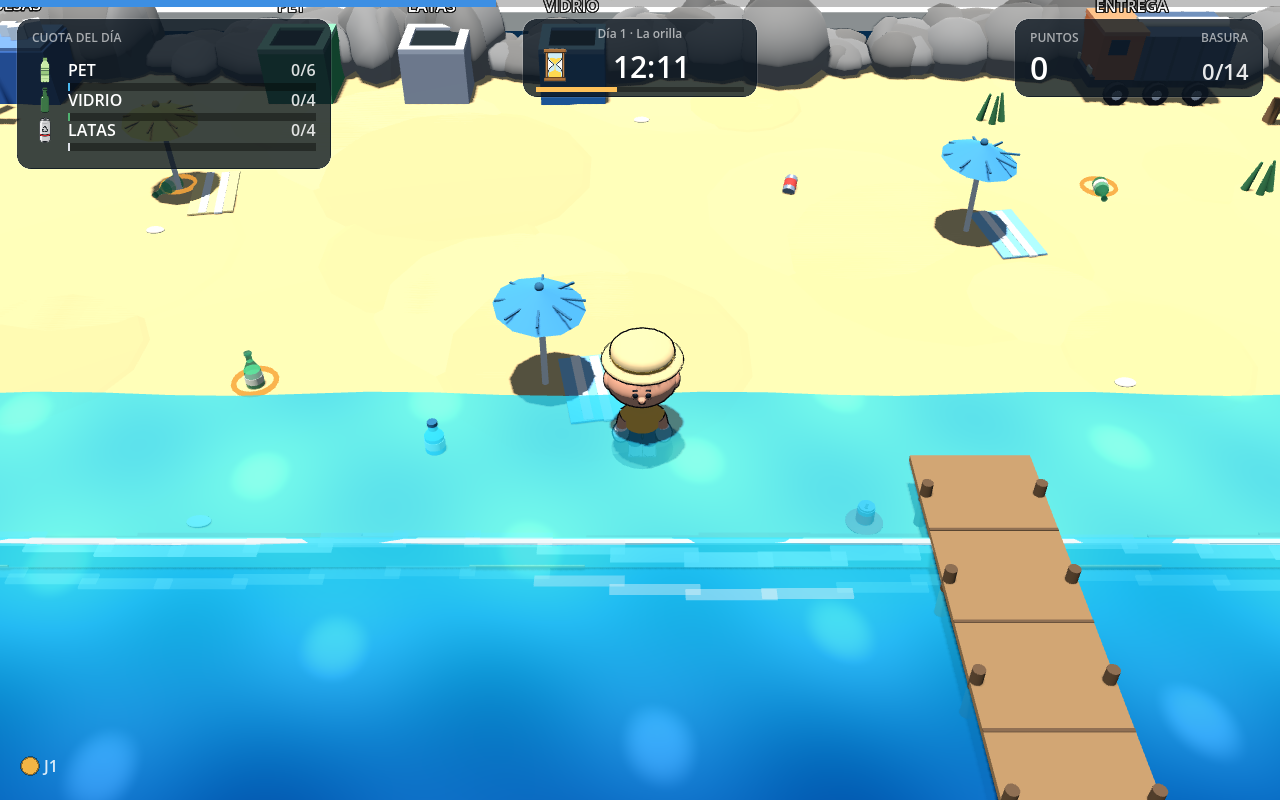
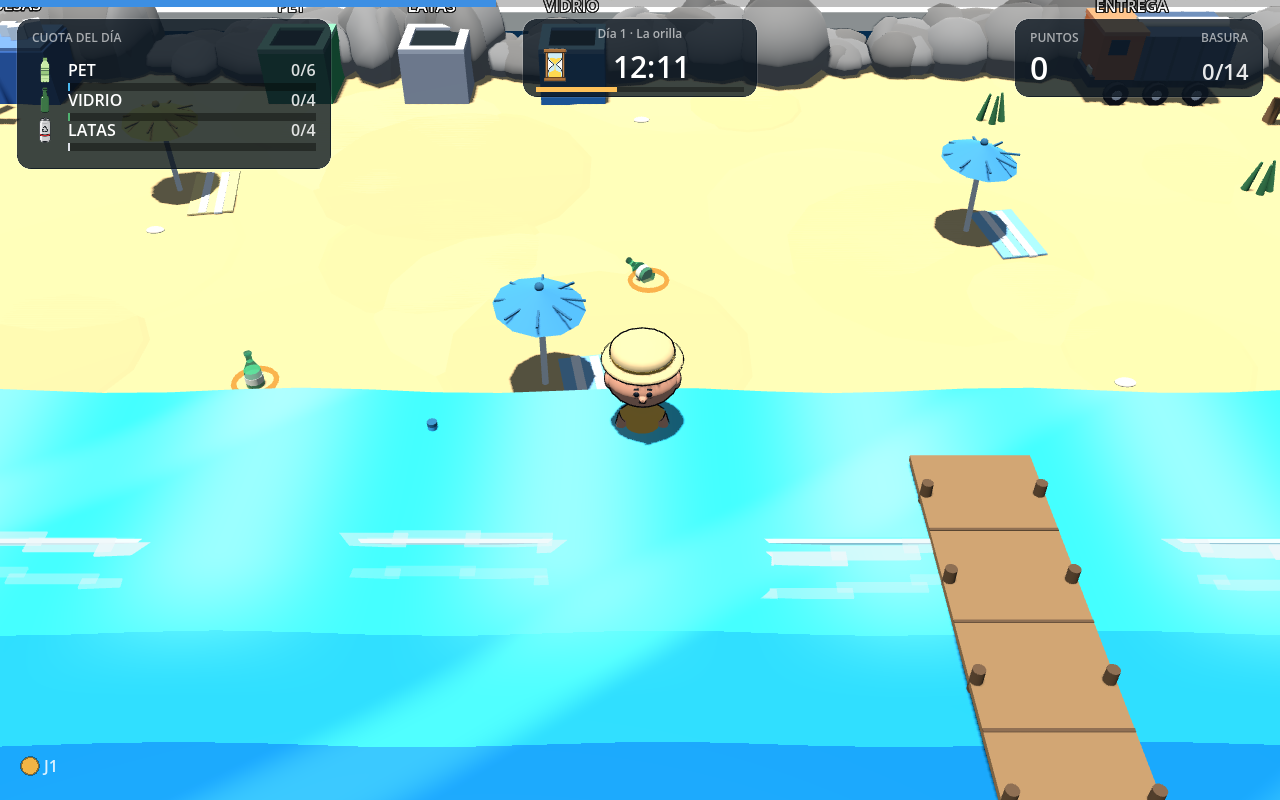
Tiburón que se calienta, penalizaciones solo de puntos y agua de dibujos
Reglas:
- Las penalizaciones son SOLO de puntos. Tirar basura en el contenedor
  equivocado ya no castiga: el contenedor la rechaza y avisa.
- La mordida del tiburón tampoco descuenta puntos: te deja 5 s fuera de
  juego (desaparecés) y reaparecés en la arena. Lo que llevabas queda en
  la orilla.
- El tiburón se calienta: cuanto más tiempo seguís en el agua, antes sale
  la aleta y antes muerde (hasta la mitad del tiempo). Después de cada
  mordida arranca más caliente.

Mundo:
- El cartel del paseo ahora dice «BALNEARIO LA GAVIOTA».
- El agua es OPACA y de dibujos: tres franjas duras de turquesa a azul,
  rayas de luz que corren y espuma que late en la orilla. Sin alfa: el
  cuerpo queda cortado por la superficie, que es lo que se lee como nadar.

Animación:
- Nado: flota como un corcho, rola con la brazada, los brazos salen y
  entran del agua alternados y se abren ondas alrededor.
- Pique: el cuerpo se inclina, los brazos van atrás y el paso se alarga.

101 comprobaciones headless (5 nuevas de la mordida: no descuenta, deja
fuera de juego, reaparece a los 5 s en la arena y visible).

diff --git a/docs/MECANICAS.md b/docs/MECANICAS.md
@@ -70,23 +70,26 @@ otro barre la arena, así que la presión puede ser mayor.
 - **El cuerpo gira hacia donde va**, no hacia el eje cardinal: caminando en
   diagonal el personaje mira en diagonal. Para interactuar se sigue usando el eje
   dominante (el aviso del piso es coherente con lo que se ve).
-- **Impulso casi sin espera**: 0,35 s entre uno y otro (antes 1 s). Cada impulso
-  levanta **polvo** en la arena y **salpicadura** en el agua: es lo que hace que
-  la carrera se sienta rápida.
+- **Impulso casi sin espera**: 0,35 s entre uno y otro (antes 1 s). Al pique el
+  personaje **se inclina, tira los brazos atrás y alarga el paso**, y levanta
+  **polvo** (o salpicadura en el agua): es lo que hace que la carrera se sienta
+  rápida.
 
 ## El mapa
 
 La playa está **conectada a la ciudad**: detrás del paseo hay edificios bajos con
-ventanas, faroles, una baranda y el cartel «PLAYA LIMPIA». No es una ciudad
+ventanas, faroles, una baranda y el cartel «BALNEARIO LA GAVIOTA». No es una ciudad
 entera, solo lo justo para que el lugar no se sienta una isla perdida.
 
 - **Arena continua**: no hay cuadrícula. La textura son manchas de duna (elipses
   planas de tonos apenas distintos) y la orilla de arena mojada.
 - **Rocas naturales**: el borde son grupos de piedras superpuestas de distinto
   tamaño y tono (antes era un cubo gris por celda).
-- **Mar animado**: una sola lámina con shader. Ondula con `TIME`, cambia de
-  turquesa a azul según la profundidad y deja ver el fondo (alfa). La espuma de
-  la orilla son segmentos que avanzan y retroceden como la rompiente.
+- **Mar animado y OPACO**: una sola lámina con shader. Ondula con `TIME`, tiene
+  **tres franjas duras** de turquesa a azul (aire de dibujo), rayas de luz que
+  corren y espuma que late en la orilla. No es transparente a propósito: el
+  cuerpo del nadador queda **cortado por la superficie**, que es lo que hace que
+  se lea "está en el agua".
 
 Puntos de referencia (todos con primitivas):
 
@@ -128,13 +131,15 @@ palmera ni debajo del muelle.
 
 ## El mar y el tiburón (Fase 3)
 
-- **Se entra al agua nadando**: el personaje queda **hundido hasta el pecho**
-  (el agua está a 0,30 y el cuerpo a 0,21), se acuesta sobre la lámina, rola con
-  la brazada, deja estela de espuma y salpica al avanzar. Nadar es **más lento** que caminar
+- **Se entra al agua nadando**: el personaje se acuesta sobre la lámina con la
+  cabeza afuera, **flota como un corcho** (sube y baja), rola con la brazada y
+  deja **ondas que se abren** alrededor, estela y salpicaduras. Nadar es **más lento** que caminar
   (2,5 contra 4,6) y el impulso en el agua también es más corto (4,2 contra 9,2).
 - **A los 3 s** de estar en el agua aparece la **aleta** (un triángulo oscuro que
-  rodea al jugador). **A los 6 s** muerde: −3, **suelta lo que lleva** (queda en
-  la orilla) y vuelve a la arena.
+  rodea al jugador) y **a los 6 s muerde**. Cuanto más tiempo pasás en el agua,
+  más se calienta: la aleta y la mordida llegan antes (hasta la mitad de tiempo).
+- La mordida **no quita puntos**: te deja **5 s fuera de juego** y reaparecés en
+  la arena. Lo que llevabas queda en la orilla (no se pierde).
 - La **basura flotante** aparece en cualquier fila del agua (una de cada tres,
   mar adentro) y **suma doble a la cuota**: es el premio por el riesgo.
 - La basura del agua **se hunde a los 10 s** si no se rescata.
@@ -146,6 +151,10 @@ palmera ni debajo del muelle.
 | Basura flotante | se hunde a los **10 s** | aro + «Se hundió» (−2) |
 | Vidrio en la arena | se rompe a los **14 s** | aro + «Vidrio roto» (−2) |
 | Gaviota | roba un residuo del piso y se lo lleva | «¡Gaviota!» (−2) |
+
+**Las penalizaciones son solo de puntos.** Tirar basura en el contenedor
+equivocado **no** castiga: el contenedor la rechaza y te avisa. Y morir por el
+tiburón tampoco descuenta: cuesta 5 segundos de espera.
 
 - El **aro de cuenta atrás** se cierra y pasa de ámbar a rojo. Solo lo llevan las
   basuras que vencen: es el aviso de que esa basura se pierde.

diff --git a/README.md b/README.md
@@ -76,7 +76,7 @@ para rescatarlo.
 La playa tiene **palmeras, sombrillas con toalla, la torre del guardavidas y un
 muelle** sobre el agua. Los props grandes bloquean el paso y reservan su celda:
 la basura no aparece dentro de ellos. Detrás del paseo se ve la **ciudad**
-(edificios, faroles y el cartel de la playa): el lugar no es una isla perdida.
+(edificios, faroles y el cartel del balneario): el lugar no es una isla perdida.
 La arena no tiene cuadrícula y el **mar es una lámina animada** con shader que
 ondula y cambia de color según la profundidad.
 
@@ -107,7 +107,7 @@ scripts/model_viewer.gd  visor standalone del asset
 tools/gen_chef.py        generador del personaje (Blender headless -> GLB)
 tools/render_views.py    4 vistas ortográficas + 3/4 para comparar
 tools/ref_metrics.py     mide una lámina de referencia y el render propio
-tests/headless_test.gd   96 comprobaciones de reglas (headless)
+tests/headless_test.gd   101 comprobaciones de reglas (headless)
 tests/shot.gd            capturas automáticas para verificación visual
 docs/                    diseño, plan, mecánicas y comparaciones
 ```
@@ -152,7 +152,7 @@ godot --headless --path . --import
 godot --headless --path . -- --test
 ```
 
-**96 comprobaciones** sobre las mismas funciones que usa el input real: reloj y
+**101 comprobaciones** sobre las mismas funciones que usa el input real: reloj y
 cuota, basura que aparece, colgar / sacar la bolsa del contenedor, tirar basura
 (tipo correcto y equivocado), entrega en el camión, fin de día (ganar y perder),
 gaviotas (incluido que aparezcan más espaciadas con un solo jugador),
@@ -181,8 +181,10 @@ contenedor con bolsa → camión), reloj de 24 h, HUD con las 3 barras, fin de d
 con estrellas y la presión de la Fase 2 (se hunde, se rompe, gaviota, aros y tope
 de castigos). Funciona la cooperación de 2 jugadores en el mismo teclado.
 
-La **Fase 3** agrega el mar: se entra nadando (más lento), a los 3 s aparece la
-aleta y a los 6 s el tiburón muerde. La basura flotante suma doble a la cuota.
+La **Fase 3** agrega el mar: se entra nadando (más lento), aparece la aleta y
+después el tiburón muerde: no quita puntos, te deja **5 s fuera de juego** y
+reaparecés en la arena. Cuanto más te quedás en el agua, antes vuelve. La basura
+flotante suma doble a la cuota.
 
 ![nadando](docs/captura-nadar.png)
 

diff --git a/docs/PLAN-v2.md b/docs/PLAN-v2.md
@@ -88,7 +88,7 @@ Decisiones de implementación:
 | # | Paso | Estado |
 |---|---|---|
 | 3.1 | Zona de agua transitable con profundidad | ✅ |
-| 3.2 | Aleta a los 3 s, mordida a los 6 s (−3 y te devuelve a la arena) | ✅ |
+| 3.2 | Aleta a los 3 s, mordida a los 6 s y 5 s para reaparecer (sin puntos) | ✅ |
 | 3.3 | Basura flotante que vale más | ✅ suma doble a la cuota |
 
 Decisiones de implementación:
@@ -105,8 +105,12 @@ Decisiones de implementación:
   uno puede cubrir la orilla mientras el otro nada.
 - **La basura del mar suma doble a la cuota** (no solo puntos): si no, el riesgo
   de nadar no se pagaba en la condición de victoria.
-- **La mordida no destruye lo que llevabas**: lo deja en la orilla. Perder la
-  basura además de 3 puntos ya era castigo doble.
+- **La mordida no destruye lo que llevabas**: lo deja en la orilla.
+- **Las penalizaciones son solo de puntos**: la mordida del tiburón no descuenta,
+  cuesta 5 s de espera; el contenedor equivocado no castiga, solo rechaza.
+- **El tiburón se calienta**: cuanto más tiempo seguís en el agua, antes aparece
+  la aleta y antes muerde (hasta la mitad del tiempo). Después de una mordida
+  arranca más caliente todavía.
 
 ## Fase 4 — Mundo y vida
 
